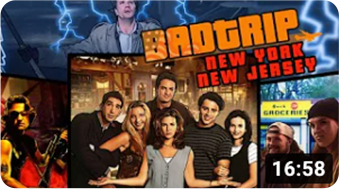
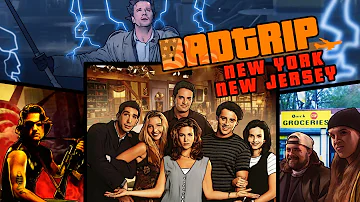
finished desctop

diff --git a/src/index.html b/src/index.html
@@ -87,9 +87,9 @@
                     правда..</option>
                 </select>
               </label>
-              <label class="label__name" for="name">
+              <label class="label__name" for="name" >
                 Имя
-                <input class="form__name" type="text" id="name" required>
+                <input class="form__name" type="text" id="name" required minlength="2">
               </label>
               <label class="label__mail" for="mail">
                 E-mail
@@ -100,7 +100,7 @@
               <label class="label__sum" for="sum">
                 Сумма
                 <div class="sum_container">
-                  <input class="form__sum" type="text" id="sum">
+                  <input class="form__sum" type="number" id="sum" min="100">
                   <span> От 100руб.</span>
                 </div>
 
@@ -259,7 +259,7 @@
           <div class="badtrip__item">
             <a href="https://www.youtube.com/watch?v=n_WDyxt7Tio&list=PLRgDwAgxaXRLhSMC5hYitAtJUh8aqC_J7&index=1&t=4s"
               class="badtrip__link">
-              <img src="@img/badtrip-main.jpg" alt="Перейти на Badrtip">
+              <img src="@img/badtrip-main.png" alt="Перейти на Badrtip">
             </a>
             <h3 class="badtrip__name">
               Мэн (Где снимали Форрест Гамп и живёт Кинг)
@@ -286,7 +286,7 @@
               </a>
               <a href="https://www.youtube.com/watch?v=EfCINwy-KvI" class="swiper-slide" target="_blank">
                 <div class="support__image">
-                  <img src="@img/badtripslide1.png" alt="Перейти на обзор">
+                  <img src="@img/badtripslide2.png" alt="Перейти на обзор">
                 </div>
                 <h4 class="badtrip__name--slide">
                   Нью-Йорк/Гэмпшир (Где снимали Крёстный отец, Таксист, Кинг-конг, Джуманджи)
@@ -297,7 +297,7 @@
               </a>
               <a href="https://www.youtube.com/watch?v=e-mhqtOz4P4" class="swiper-slide" target="_blank">
                 <div class="support__image">
-                  <img src="@img/badtripslide1.png" alt="Перейти на обзор">
+                  <img src="@img/badtripslide3.png" alt="Перейти на обзор">
                 </div>
                 <h4 class="badtrip__name--slide">
                   Иллинойс (где снимали БРАТ 2, Один дома, День Сурка
@@ -427,6 +427,16 @@
         <a href="#" class="footer__link">info@skillpoint.ru</a>
         <a href="#" class="footer__link">Реквизиты для прямых переводов</a>
         <a href="#" class="footer__link">Политика обработки персональных данных</a>
+      </div>
+      <div class="footer__about">
+        <a href="#" class="footer__gooders">
+          <img src="@img/gooders.png" alt="Перейти на Gooders">
+          Платформа
+        </a>
+        <a href="#" class="footer__skilpoint">
+          <img src="@img/skilpoint.png" alt="Перейти на Skilpoint">
+          Дизайн/Разработка
+        </a>
       </div>
     </div>
 

diff --git a/src/scss/style.scss b/src/scss/style.scss
@@ -306,6 +306,10 @@ main {
   }
   &__link {
     box-shadow: 0px 0px 20px #511e85;
+    border-radius: 30px;
+    & img{
+      border-radius: 30px;
+    }
   }
 }
 .popular {
@@ -336,8 +340,7 @@ main {
     display: flex;
     justify-content: space-between;
     max-width: 85%;
-    margin: 0 auto;
-    margin-top: 30px;
+    margin: 30px auto 30px;
   }
   &__link {
     color: #ffffff;
@@ -345,6 +348,23 @@ main {
     font-size: 14px;
     &:not(:last-child){
       margin-right: 15px;
+    }
+  }
+  &__about{
+    max-width: 33%;
+    margin: 0 auto;
+    & a{
+      line-height: 36px;
+      text-align: center;
+      text-decoration: underline;
+      text-decoration-skip-ink: none;
+      color: #ffffff;
+    }
+    & a:first-child{
+      padding-right: 15px;
+    }
+    & a:last-child{
+      padding-left: 15px;
     }
   }
 }

diff --git a/src/scss/_slider.scss b/src/scss/_slider.scss
@@ -2,6 +2,8 @@
   position: relative;
   margin: 0 auto;
   margin-bottom: 25px;
+  max-height: 220px;
+  margin-bottom: 50px;
 }
 
 .swiper-button-next-support,
@@ -11,7 +13,8 @@
 .swiper-button-prev-badtrip,
 .swiper-button-next-badtrip{
   position: absolute;
-  top: 20%;
+  top: 50%;
+  transform: translateY(-50%);
   z-index: 10;
   cursor: pointer;
 }
@@ -36,6 +39,7 @@
   box-sizing: border-box;
   width: 100%;
   overflow: hidden;
+  max-height: 250px;
 }
 .swiper-last {
   position: relative;
@@ -82,8 +86,11 @@
 .swiper-button-prev-last{
   left: 0;
 }
-.swiper-badtrip{
+.swiper-badtrip {
   padding: 20px;
+}
+.swiper-badtrip .swiper-wrapper .swiper-slide .support__image img{
+  border-radius: 20px;
 }
 .swiper-badtrip .swiper-wrapper .swiper-slide-active .support__image{
     position: relative;

diff --git a/src/scss/_reset.scss b/src/scss/_reset.scss
@@ -1,6 +1,9 @@
 html {
     box-sizing: border-box;
 }
+body{
+      text-decoration-skip-ink: none;
+}
 
 *,
 *::after,
@@ -58,4 +61,25 @@ button{
     &:hover{
         opacity: 0.8;
     }
+    &:focus{
+      border: transparent;
+      outline: transparent;
+    }
+}
+input[type="number"] {
+  -moz-appearance: textfield;
+}
+input[type="number"]:hover,
+input[type="number"]:focus {
+  -moz-appearance: number-input;
+}
+input[type=number]::-webkit-inner-spin-button,
+input[type=number]::-webkit-outer-spin-button {
+  -webkit-appearance: none;
+  margin: 0;
+}
+input[type="number"]::-webkit-outer-spin-button,
+input[type="number"]::-webkit-inner-spin-button {
+  -webkit-appearance: none;
+  margin: 0;
 }
